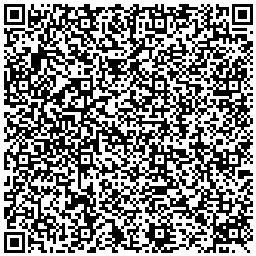
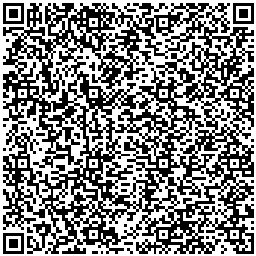
集成红糖云小程序

diff --git a/readme.md b/readme.md
@@ -2,7 +2,7 @@
 
 ### 使用红糖云服app 扫码添加小程序
 
-[![小程序码](./qrcode.png)](https://share.dagouzhi.com/#/pages/index/index?data=%7B%22type%22%3A%22app%22%2C%22name%22%3A%22MusicFree%22%2C%22projectname%22%3A%22MusicFree%22%2C%22appid%22%3A%22MusicFree_996%22%2C%22appUrlConfig%22%3A%22https%3A%2F%2Fraw.gitmirror.com%2Fhtyf-mp-community%2FMusicFree%2Fdgz%2Foutputs%2Fapp.json%22%2C%22zipUrl%22%3A%22https%3A%2F%2Fraw.gitmirror.com%2Fhtyf-mp-community%2FMusicFree%2Fdgz%2Foutputs%2Fdist.dgz%22%7D)
+[![小程序码](./qrcode.png)](https://share.dagouzhi.com/#/pages/index/index?data=%7B%22type%22%3A%22app%22%2C%22name%22%3A%22MusicFree%22%2C%22projectname%22%3A%22MusicFree%22%2C%22appid%22%3A%22MusicFree_996%22%2C%22appUrlConfig%22%3A%22https%3A%2F%2Fraw.gitmirror.com%2Fhtyf-mp-community%2FMusicFree%2Fmaster%2Fdgz%2Fbuild%2Foutputs%2Fapp.json%22%2C%22zipUrl%22%3A%22https%3A%2F%2Fraw.gitmirror.com%2Fhtyf-mp-community%2FMusicFree%2Fmaster%2Fdgz%2Fbuild%2Foutputs%2Fdist.dgz%22%7D)
 
 >更多小程序demo 请查看[https://github.com/htyf-mp-community/demo](https://github.com/htyf-mp-community/demo)
 
